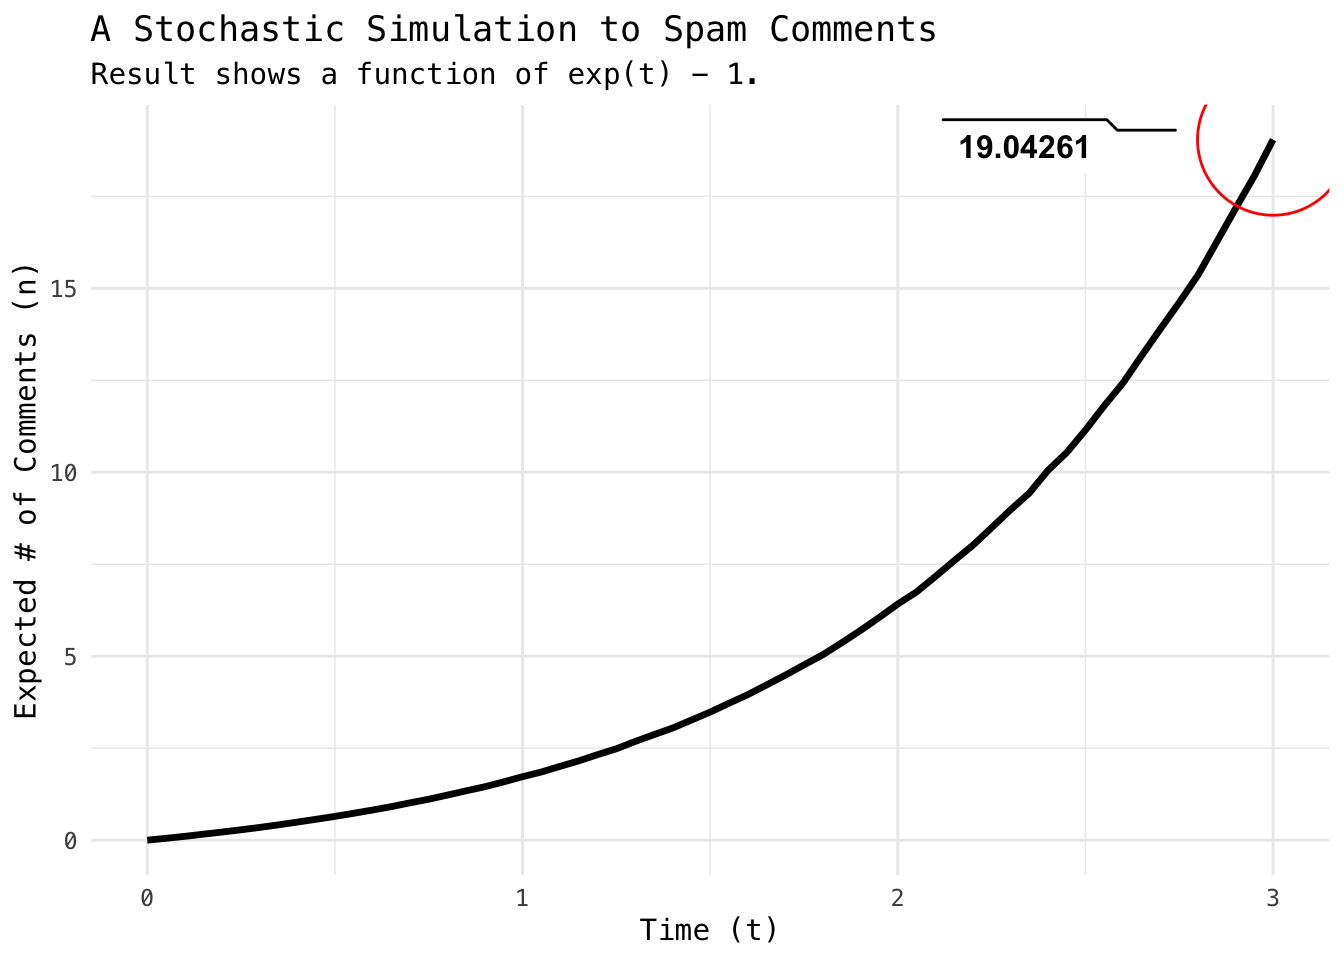
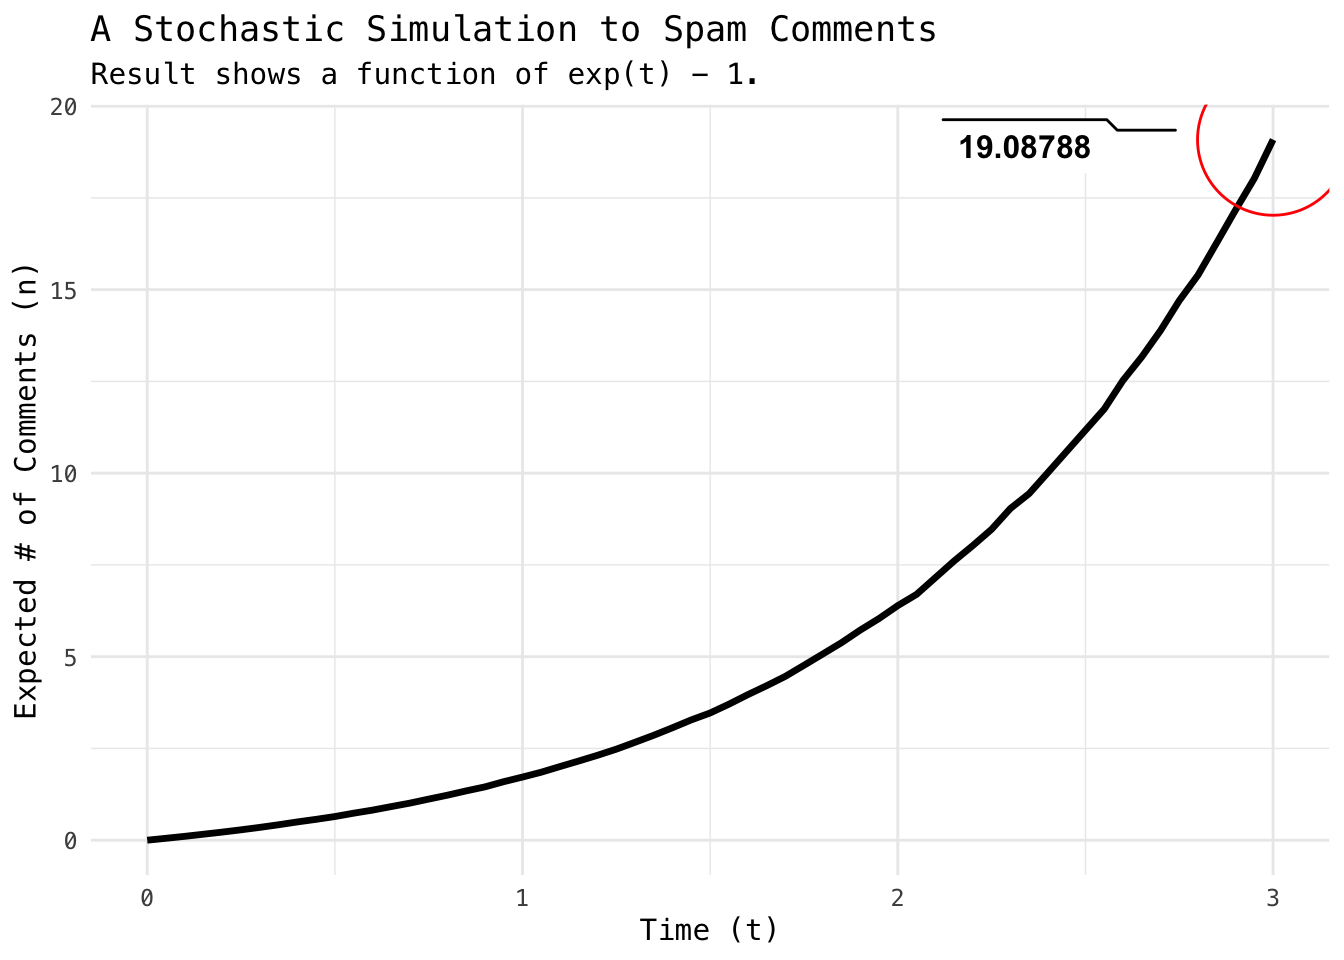
Bump version

diff --git a/content/post/2020-05-06-spam-attack-a-yule-process-simulation.html b/content/post/2020-05-06-spam-attack-a-yule-process-simulation.html
@@ -34,14 +34,14 @@ trials = 1e5
 x = replicate(trials, sum(cumsum(rexp(n = N, rate = 1:N)) &lt; 3))
 mean(x, na.rm = TRUE)</code></pre>
 <pre><code>## [1] 19.08135</code></pre>
-<p>We can further investigate the growth of spam comments to highlight the <em>fact</em> that using average in a compound distribution is <em>usually</em> NOT a good idea.</p>
+<p>We can further investigate the growth of spam comments to highlight the fact that using average (as expected value) in a compound distribution is usually not a good idea. The spread (variance) can be extremely large.</p>
 <pre class="r"><code># further simulate possible &#39;growth&#39; by every 3-minutes
 seqs = seq(0, 3, 0.05)
 res  = furrr::future_map_dbl(rep(seqs, trials), ~ sum(cumsum(rexp(n = N, rate = 1:N)) &lt; .x))
 
 res_df &lt;- tibble(
-    trial = rep(1:trials, each = length(seqs)),
-    t = rep(seqs, trials),
+    trial    = rep(1:trials, each = length(seqs)),
+    t        = rep(seqs, trials),
     comments = res
 )
 
